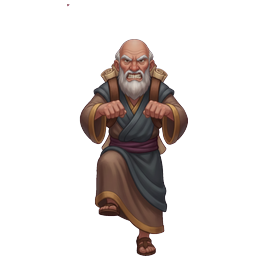
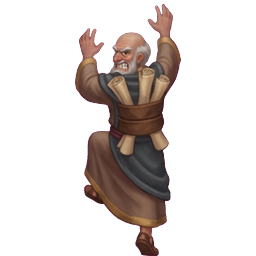
art(tower): back-view climbers facing the tower; tongue/angry only on rock actions; 5s breather

Changed region(s): [[0.2812, 0.0, 0.75, 1.0]]

diff --git a/components/Tower.tsx b/components/Tower.tsx
@@ -81,9 +81,10 @@ export default function Tower({
     window.setTimeout(() => {
       flying.current = false;
       setThrowingId(null);
-    }, 1500);
+    }, 1800);
     const t0 = performance.now();
-    const DUR = 640;
+    const DUR = 640; // flight
+    const FACE_MS = 1700; // how long the grimace stays up
     const step = (now: number) => {
       const p = Math.min(1, (now - t0) / DUR);
       setRock({
@@ -94,10 +95,12 @@ export default function Tower({
       });
       if (p < 1) return;
       setRock((r) => ({ ...r, on: false }));
-      setThrowingId(null);
+      // the thrower keeps his tongue out for the whole grimace window, the
+      // victim starts his angry face the moment the rock lands
+      window.setTimeout(() => setThrowingId(null), FACE_MS - DUR);
       setHitId(target.id);
       flying.current = false;
-      window.setTimeout(() => setHitId(null), 900);
+      window.setTimeout(() => setHitId(null), FACE_MS);
     };
     const timer = window.setInterval(() => step(performance.now()), 40);
     window.setTimeout(() => window.clearInterval(timer), DUR + 200);

diff --git a/app/tower/[id]/page.tsx b/app/tower/[id]/page.tsx
@@ -253,7 +253,7 @@ export default function TowerGamePage() {
             </div>
           )}
 
-          {/* reveal + rock throw: also visible during the 10s breather */}
+          {/* reveal + rock throw: also visible during the breather */}
           {(state.reveal != null || (state.canThrow && !myRock)) && state.phase !== "lobby" && state.phase !== "done" && (
             <div className="bg-gradient-to-br from-[#122420] to-[#0c1a17] border-2 border-[#1e3a34] rounded-2xl p-3 flex flex-col gap-2">
               {state.reveal != null && (

diff --git a/lib/tower.ts b/lib/tower.ts
@@ -28,7 +28,7 @@ export const TOWER_ROUND_MS = 15_000;
 export const TOWER_ROUND_GRACE_MS = 1_500;
 /** Breather between rounds: the next question opens this long after the round
  *  settles, so players can read what happened before the clock restarts. */
-export const TOWER_INTERMISSION_MS = 10_000;
+export const TOWER_INTERMISSION_MS = 5_000;
 export const RUNGS_PER_ROUND = 4;
 /** Visual height of the tower in rungs — the winner climbs all of them. */
 export const TOWER_HEIGHT = 36;
